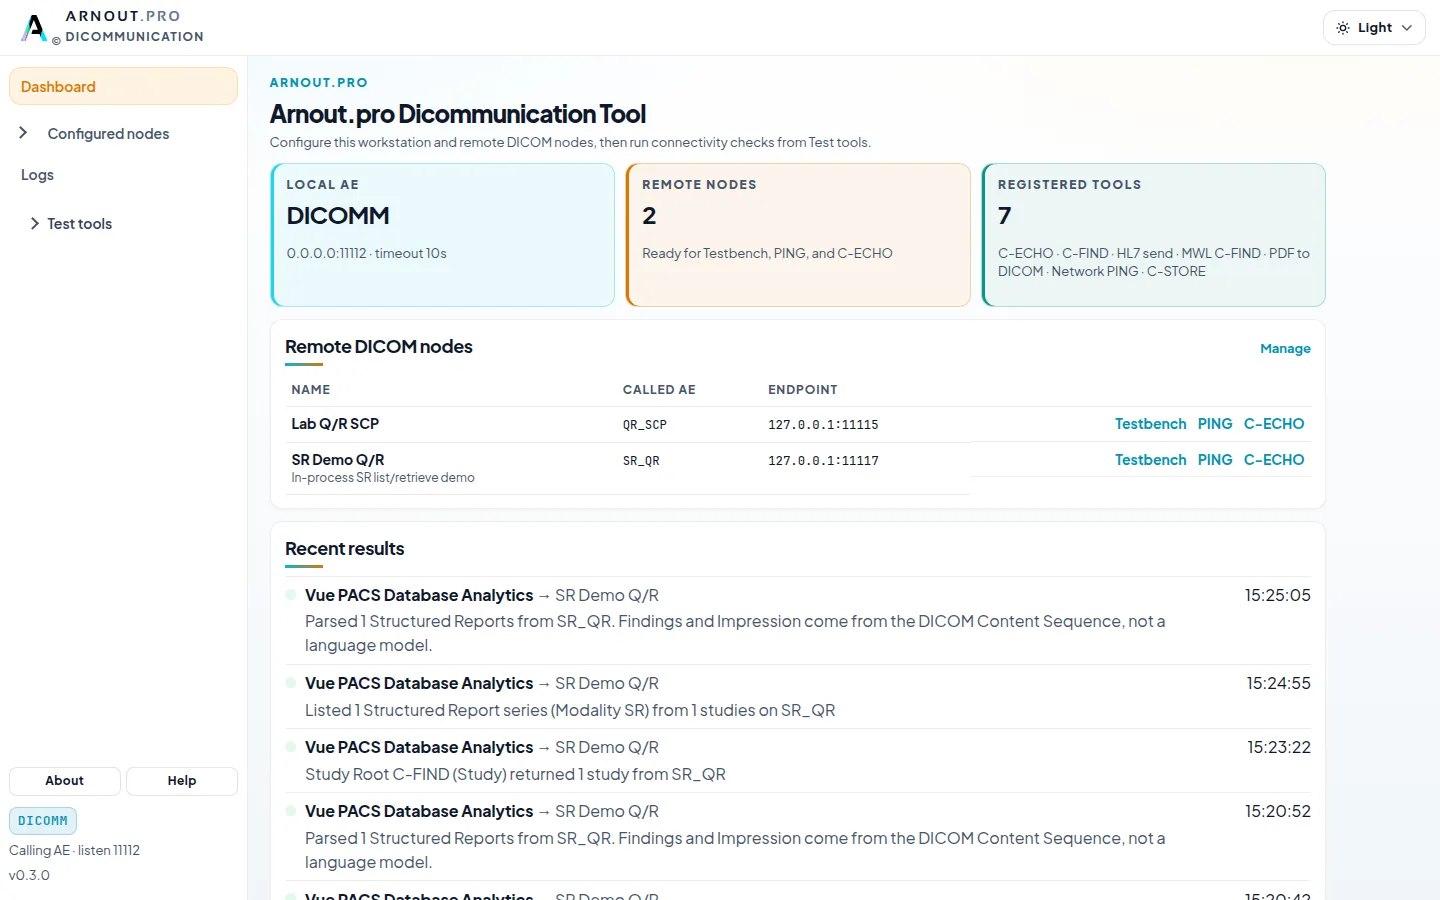
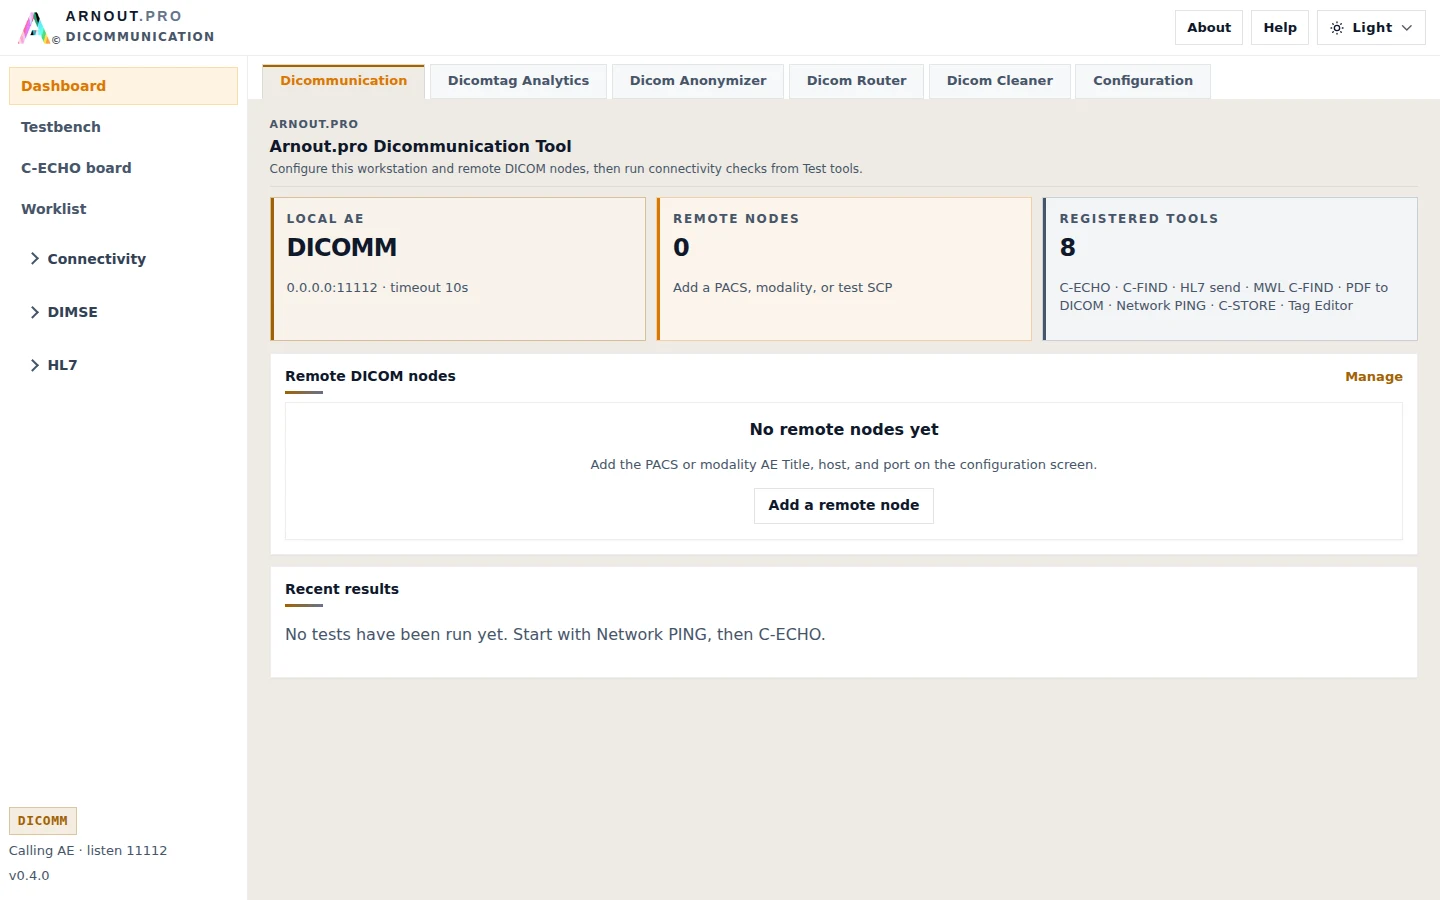
Update README screenshots and copy for the visual polish pass
Regenerated all three README screenshots against the real app (synthetic
data through the actual query/retrieve flow, not mockups) so they reflect
this session's visual work: the flat, no-rounded-corners design, the
top-bar About/Help placement, the tab row aligned to the sidebar edge, and
the active tab's color carrying through into the page background beneath
it.

- Dashboard: plain load of the current UI.
- Dicomtag Analytics query: a fake Q/R SCP returning 5 synthetic studies,
  driven through the real /tools/c-find-advanced/run POST.
- SR reports: 5 synthetic Structured Reports (Content Sequence with
  Findings/Impression) retrieved through the real retrieve-SR flow against
  a fake C-MOVE SCP, same as the query screenshot.

Also fixed a stale line claiming About lives in the sidebar (moved to the
top bar earlier this session) and bumped the screenshot caption's version
note from v0.3.0 to the current v0.4.0, adding a line that the same
tab/page-background treatment applies in dark and professional-dark mode
too.

Claude-Session: https://claude.ai/code/session_01S8VcAFqCtKjT6ZWSHtazM4

diff --git a/README.md b/README.md
@@ -10,13 +10,13 @@ Configure this workstation as a DICOM Application Entity, register remote nodes 
 
 Dicommunication is **one application**, with a top tab row for each product and a shared **Configuration** tab: **Dicommunication** (the network/DIMSE/HL7 workstation tools), **Dicomtag Analytics** (Study Root C-FIND, including Vue ELSCINT1 keys, plus listing and retrieving DICOM Structured Reports), **Dicom Anonymizer** (query, retrieve, and anonymize studies/series/images — see below), **Dicom Router** (scheduled C-FIND rules with optional retrieve/forward — see below), and **Dicom Cleaner** (query, retrieve, redact a rectangle of burned-in pixel data, and send the result back over C-STORE — see below). Each tab's content area has its own left sidebar with that product's own pages. Local AE, virtual identities, remote nodes, and logs are configured once, under the Configuration tab, and shared by every product. The Windows MSI and macOS DMG each install a single shortcut / app.
 
-The web UI is FastAPI + HTMX. DICOM uses pynetdicom/pydicom. New test tools are Python plugins: drop a file in `app/tools/` and it appears in the Dicommunication sidebar. The sidebar **About** button shows the running version; **Help** is the in-app administrator guide.
+The web UI is FastAPI + HTMX. DICOM uses pynetdicom/pydicom. New test tools are Python plugins: drop a file in `app/tools/` and it appears in the Dicommunication sidebar. The top bar's **About** button shows the running version; **Help** is the in-app administrator guide.
 
 Open [http://127.0.0.1:8080](http://127.0.0.1:8080).
 
 ## Screenshots
 
-Synthetic lab studies (not clinical data). Light theme, v0.3.0.
+Synthetic lab studies (not clinical data). Light theme, v0.4.0. The theme switcher (top right) also has dark and professional-dark modes — same layout, same tab-color-into-page-background treatment, different accent.
 
 **Dicommunication** — workstation dashboard, remotes, Test tools.
 
